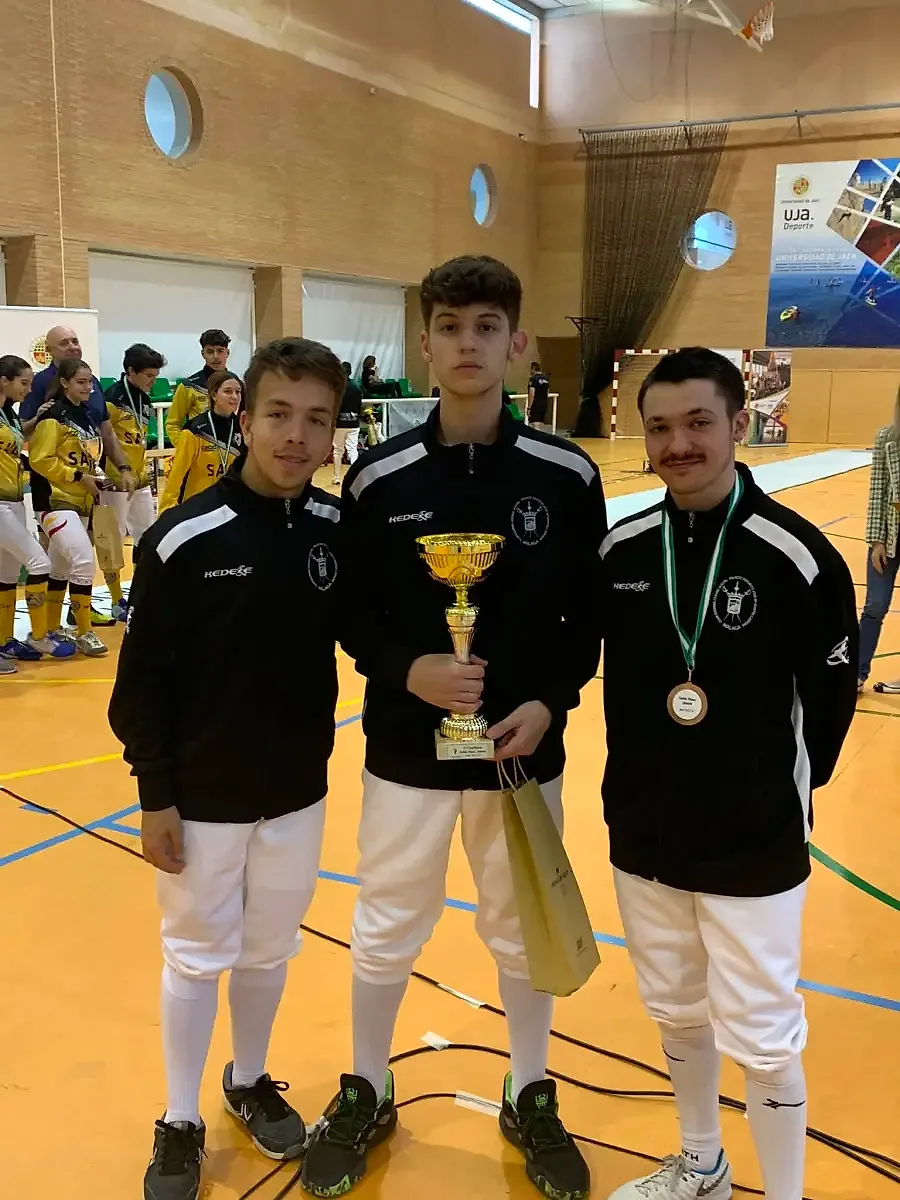
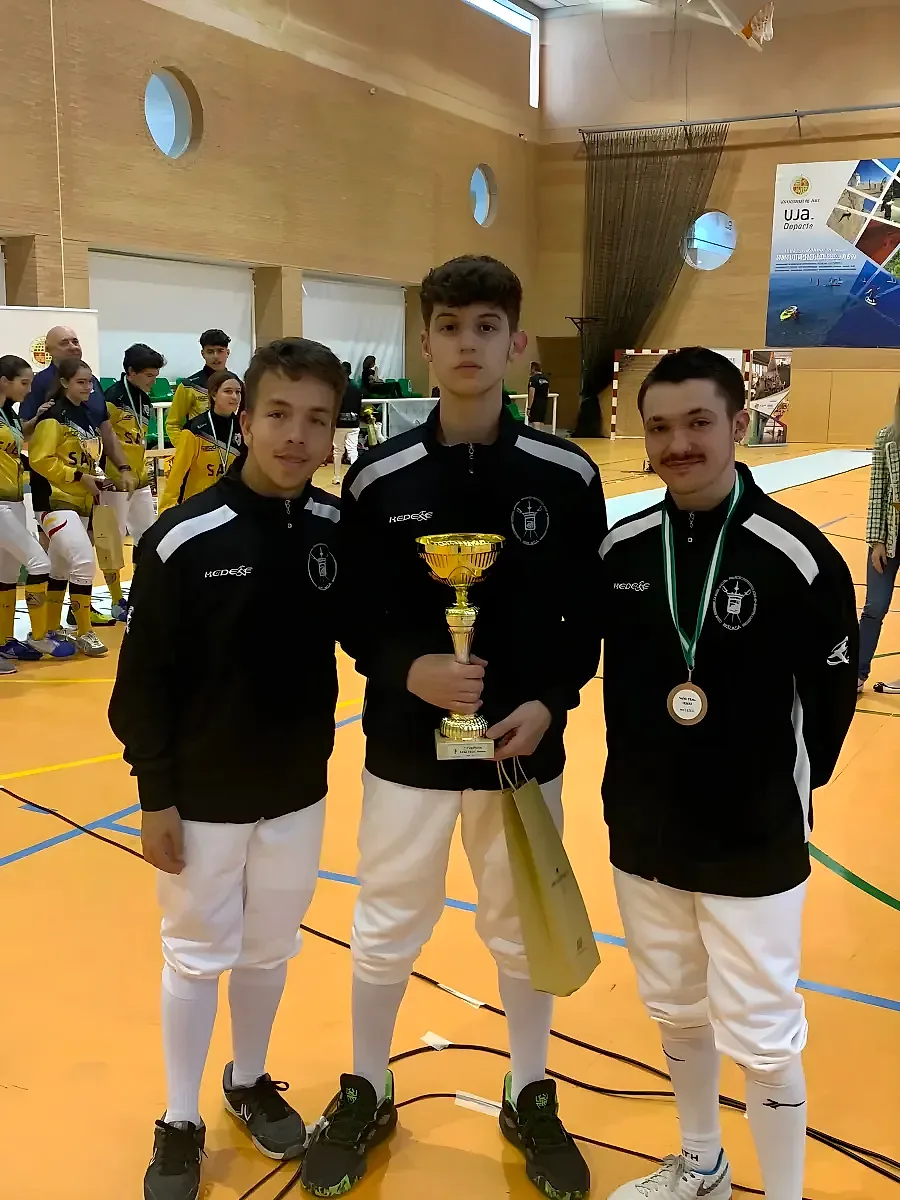
AI upscaling (Real-ESRGAN) for five older photos and the hero, kept only where it clearly helps
Claude-Session: https://claude.ai/code/session_012wKSZPFiE8YzXyDkfxYMY1

diff --git a/src/app/page.tsx b/src/app/page.tsx
@@ -56,8 +56,8 @@ export default function Home() {
         <Photo
           src="/images/portada/esgrima-sable-torremolinos-portada.webp"
           alt="Dos esgrimistas de sable en pleno asalto durante una competición"
-          width={1077}
-          height={698}
+          width={1800}
+          height={1166}
           priority
           className="absolute inset-0 h-full w-full object-cover object-[70%_center]"
         />
